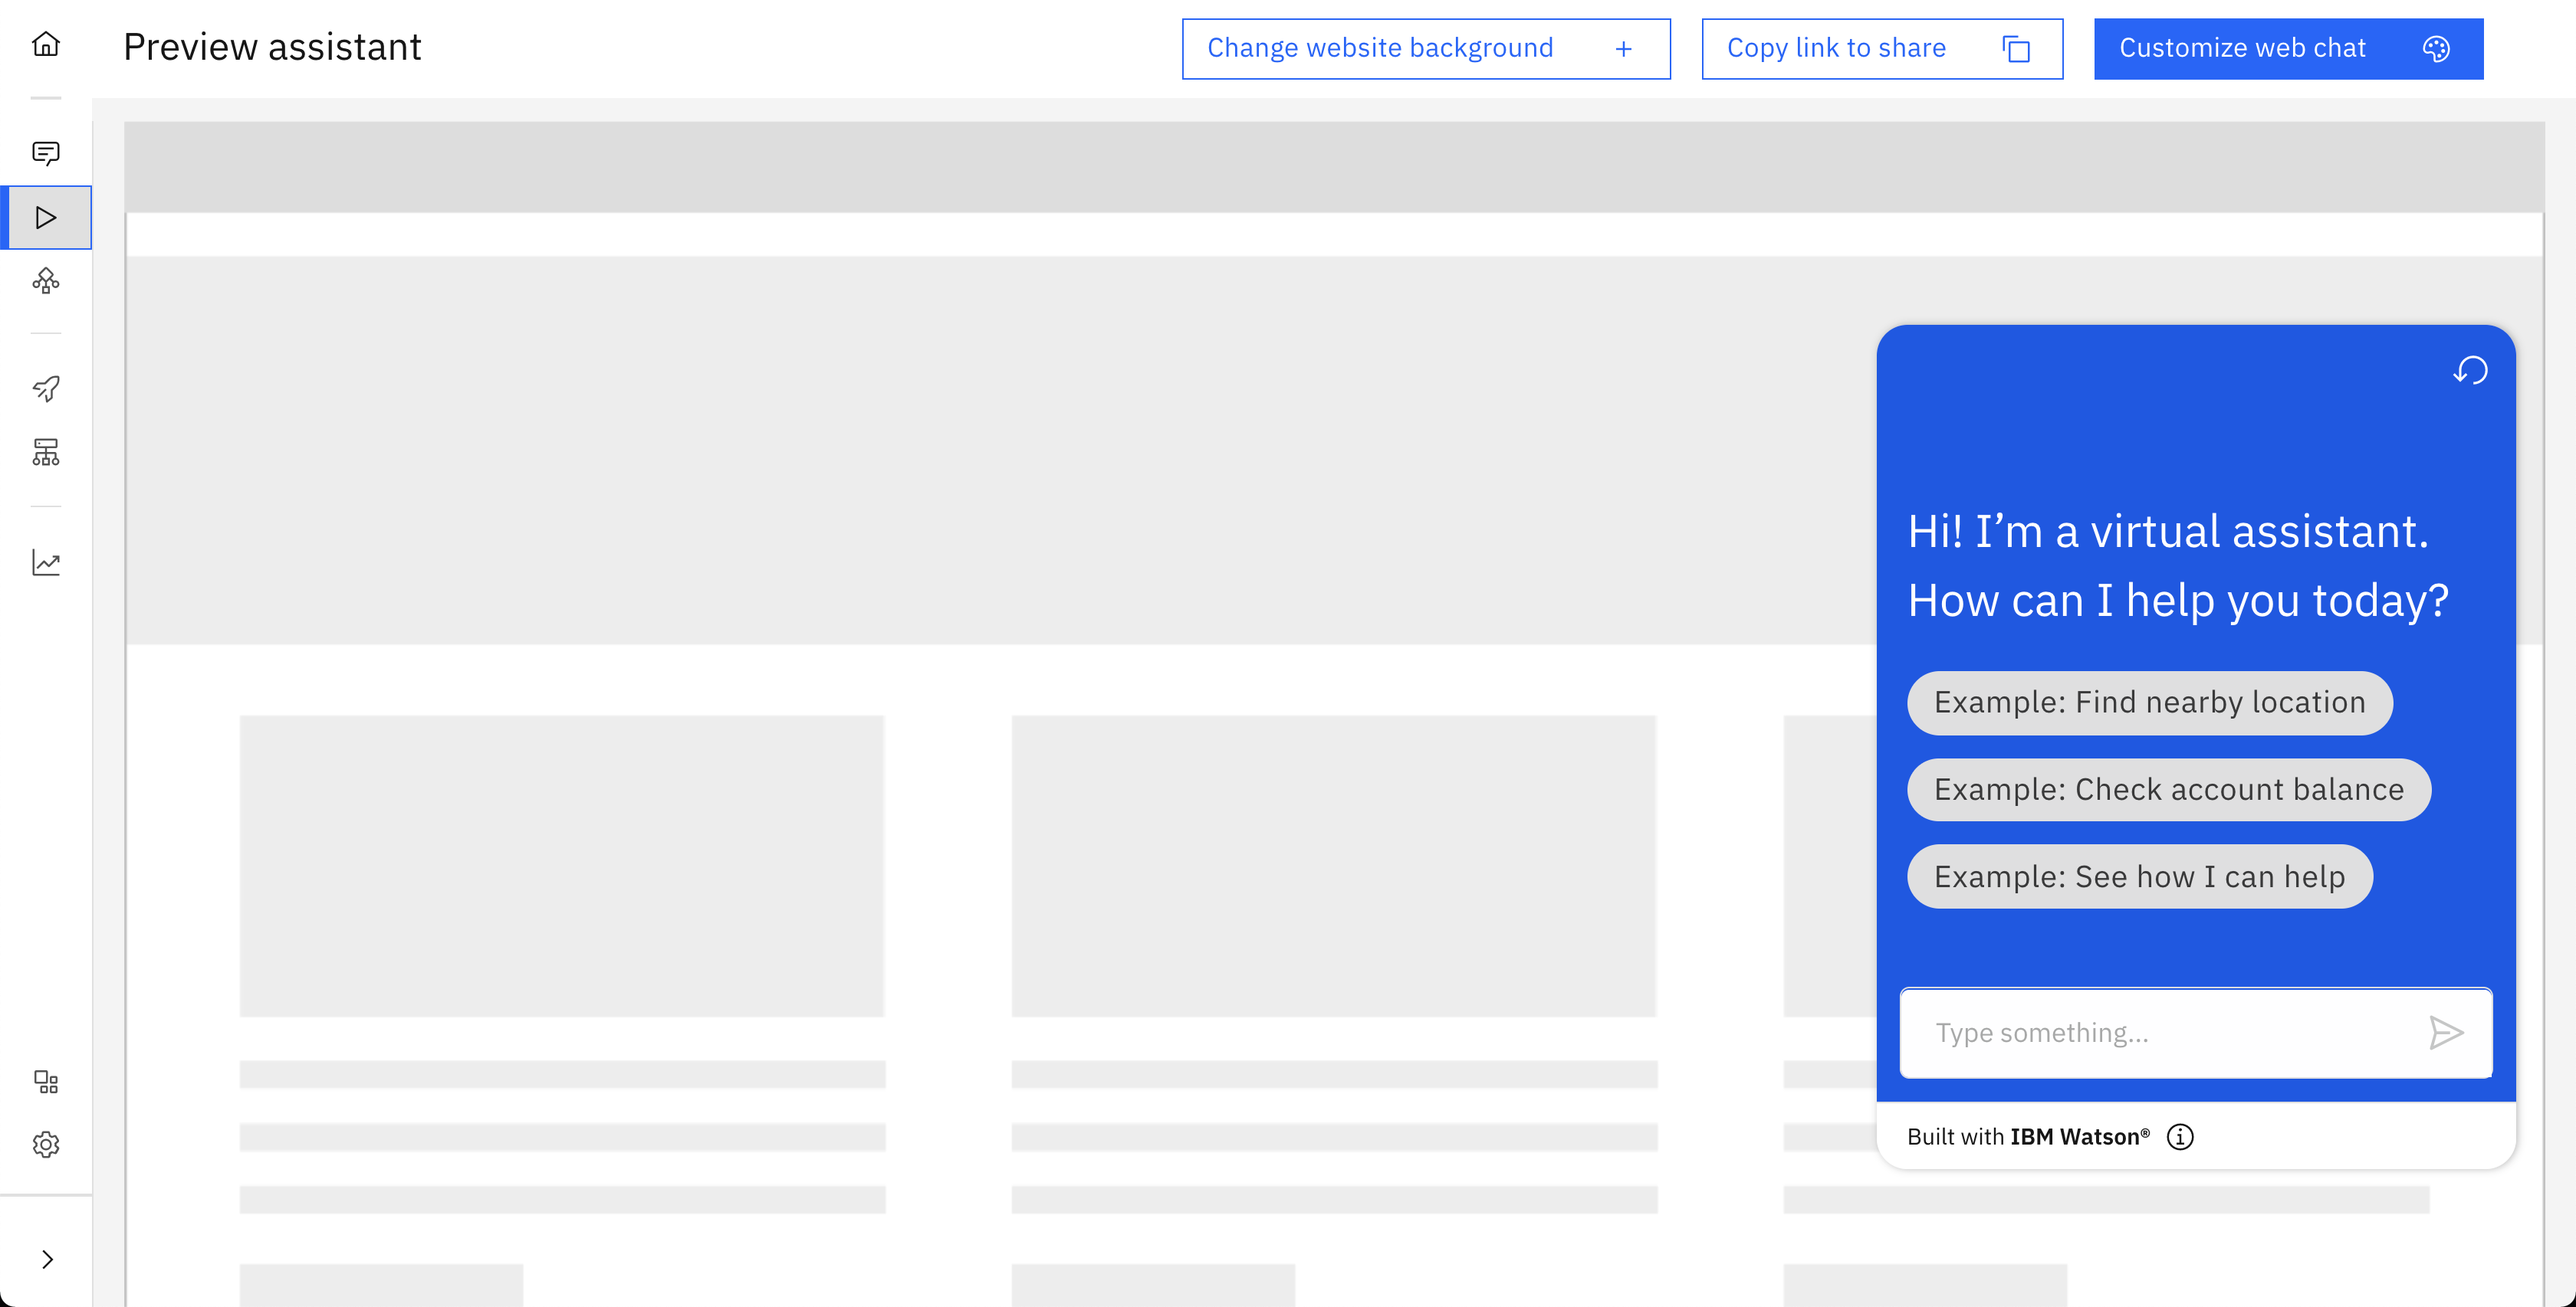
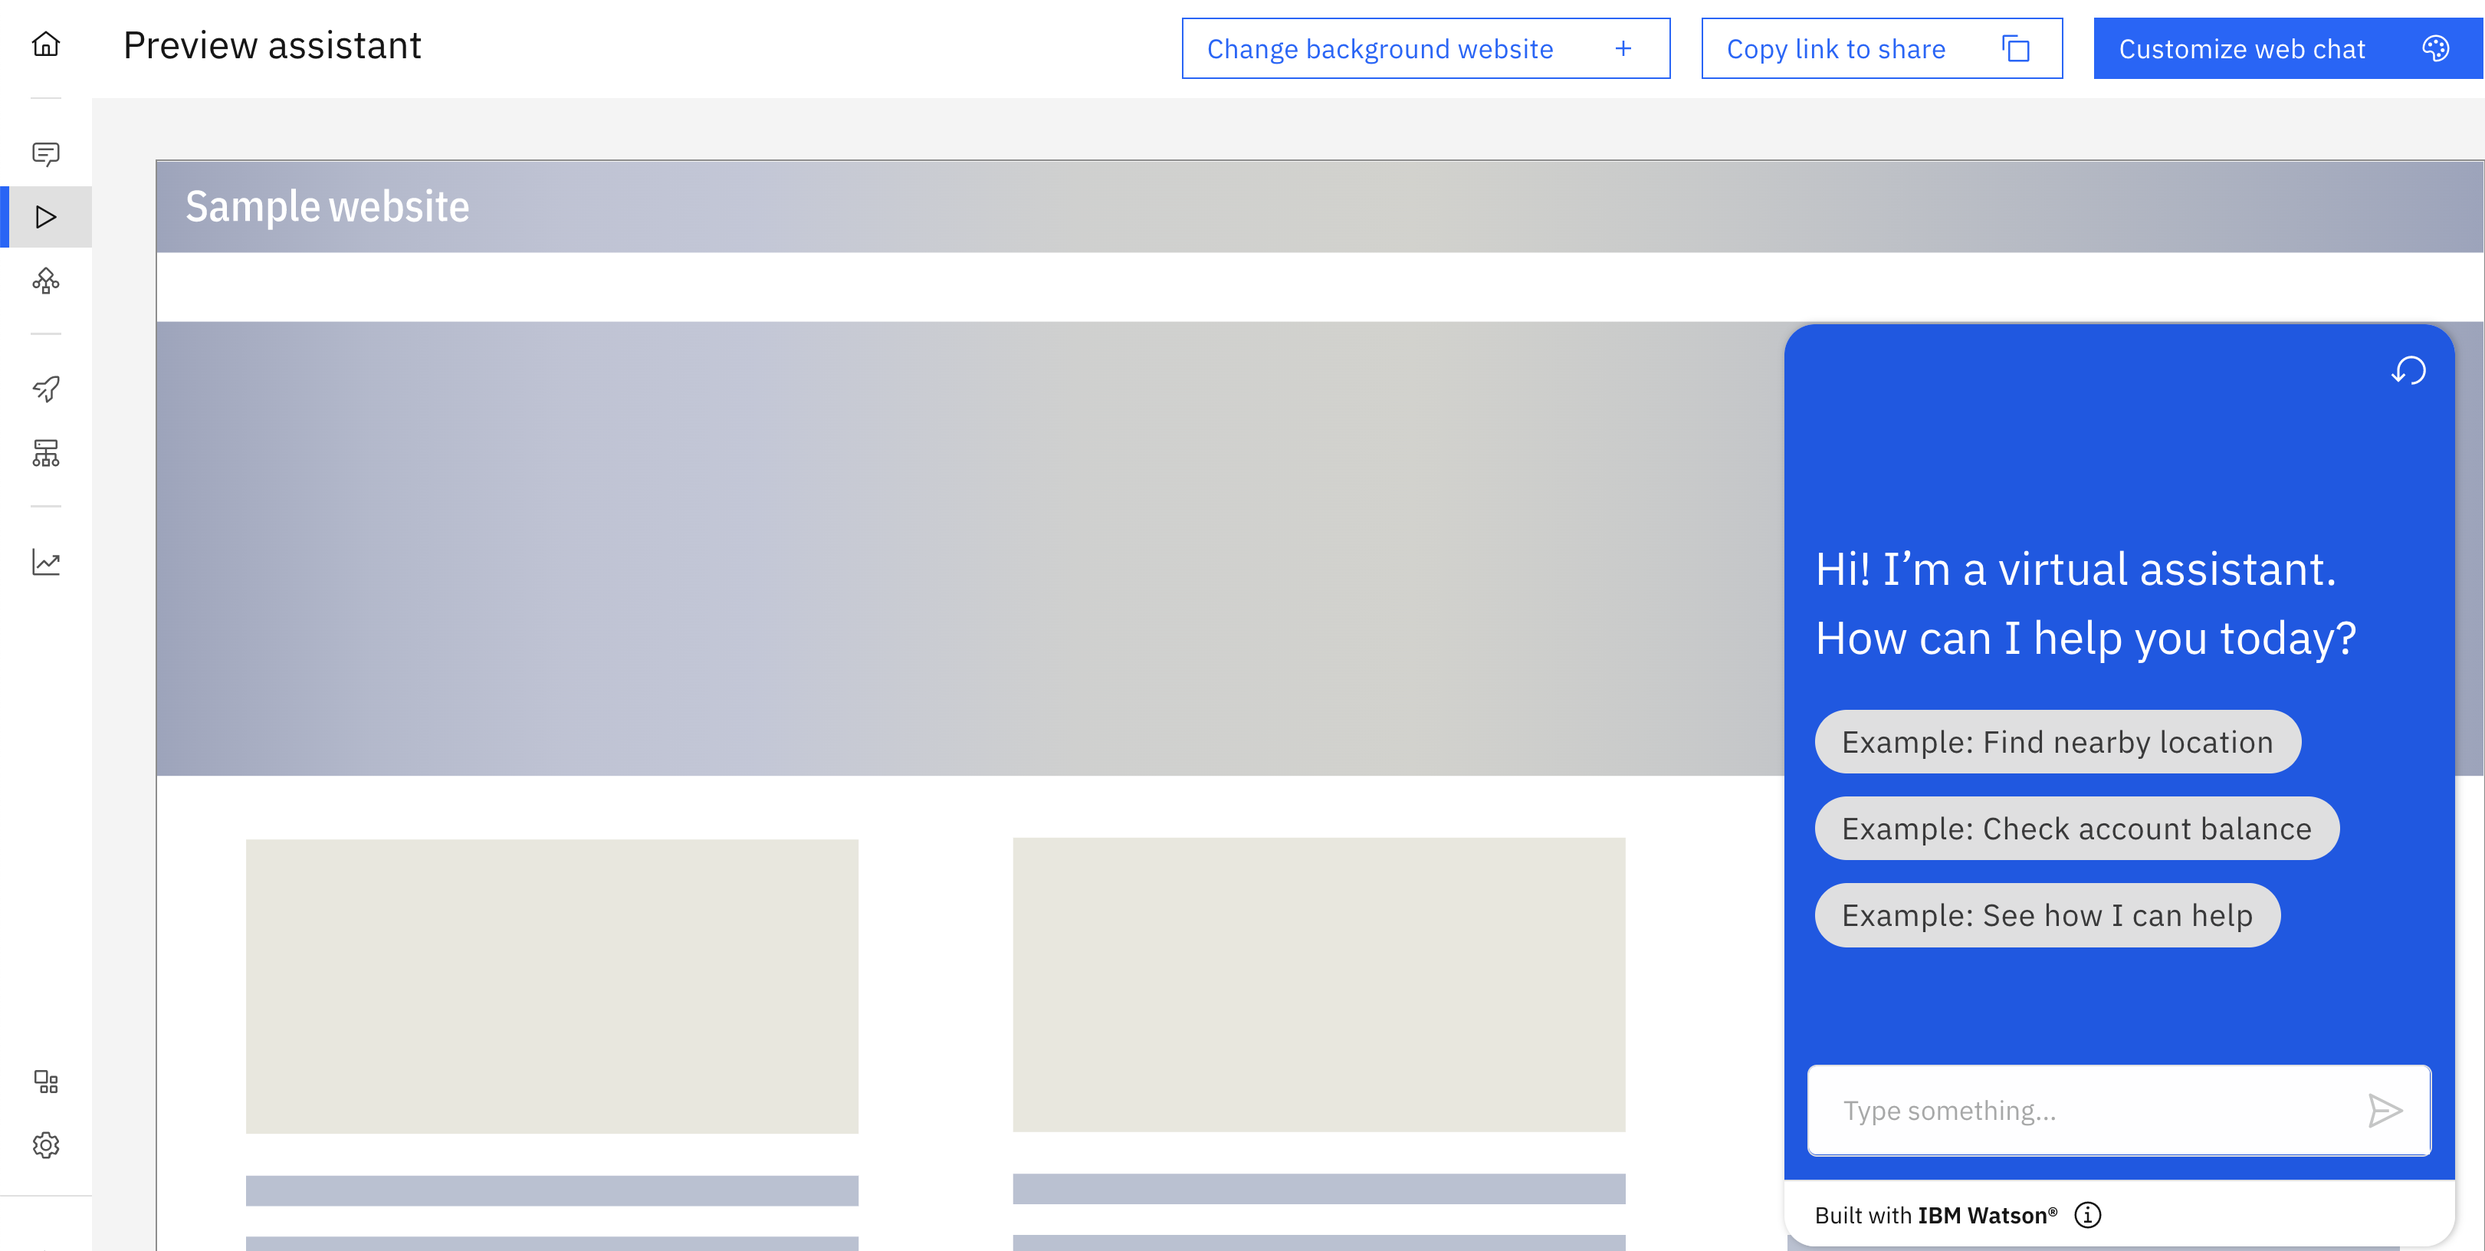
Publish share link mirroring and adding users

diff --git a/access-control.md b/access-control.md
@@ -1,8 +1,8 @@
 ---
 
 copyright:
-  years: 2020, 2021
-lastupdated: "2021-11-16"
+  years: 2020, 2022
+lastupdated: "2022-02-17"
 
 subcollection: watson-assistant
 
@@ -27,17 +27,44 @@ subcollection: watson-assistant
 # Managing access
 {: #access-control}
 
-If you need to collaborate with others on your assistants, you can use the [Identity and Access Management (IAM) page](https://cloud.ibm.com/iam/users) in IBM Cloud to add users.
+If you need to collaborate with others on your assistants, you can quickly add users with Administrator and Manager access from the **Manage** menu. To manage access to your assistants, use the [Identity and Access Management (IAM) page](https://cloud.ibm.com/iam/users) in IBM Cloud.
 {: shortdesc}
 
-In the new Watson Assistant, each assistant contains all the draft and live resolution methods (actions and search integration) and channels you add (such as web chat, Facebook, or Slack), so the simplest way to provide access is to add users to your Watson Assistant instance with Administrator and Manager permissions. This gives other users the same level of access to a Watson Assistant service instance as you, and ensures they have all the privileges they need to build and deploy any assistant. Unlike classic Watson Assistant, you no longer need to provide specific access to individual assistants and skills. Now in the new Watson Assistant, each assistant includes everything you need and access is more efficient.
+## Adding users from the Manage menu
+{: #access-control-add-users}
 
-## Opening Identity and Access Management
-{: #access-control-iam}
+In the new Watson Assistant, each assistant contains all the draft and live resolution methods (actions and search integration) and channels you add (such as web chat, Facebook, or Slack), so the simplest way to provide access is to add users to your Watson Assistant instance with Administrator and Manager permissions. This gives other users the same level of access to a Watson Assistant service instance as you, and ensures they have all the privileges they need to build and deploy any assistant. If you want to add users without full access or manage the access of existing users, see the steps for [Managing access with Identity and Access Management](#access-control-iam).
+
+To add users with Administrator and Manager access, complete the following steps:
 
 1.  Open the **Manage** menu.
 
-    ![Manage menu](images/access-control-manage-menu.png)
+    ![Manage menu](images/access-control-manage-menu-2.png)
+
+1. Click **Add users**.
+
+1. Enter the email addresses of the users that you want to provide full access to. Separate email addresses with commas, spaces, or line breaks.
+
+    ![Add users](images/add-users.png)
+
+    Adding users from this menu enables them to read, write, and manage all aspects of the instance.
+    {: important}
+
+1. Click **Submit**.
+
+After you click **Submit**, any user that you invite receives an email to access the assistant. After they accept the invite, they can now work on your assistant with you.
+
+## Managing access with Identity and Access Management
+{: #access-control-iam}
+
+Another way to add users to your assistants is using Identity and Access Management (IAM). If you want to add users, and you don't want them to have full Administrator and Manager access, use IAM to add them. From IAM, you can also manage access roles of those users that are already added to your assistants.
+
+### Opening Identity and Access Management
+{: #access-control-open-iam}
+
+1.  Open the **Manage** menu.
+
+    ![Manage menu](images/access-control-manage-menu-2.png)
 
 1.	Click **Manage users**.
 
@@ -45,10 +72,8 @@ In the new Watson Assistant, each assistant contains all the draft and live reso
 
     ![Access and permissions](images/access-control-manage-users-modal.png){: caption="Access and permissions" caption-side="bottom"}
 
-1.	You’ll use Identity and Access Management (IAM) for all steps to share access.
-
-## Providing access to your assistants
-{: #access-control-provide-access}
+### Adding users in Identity and Access Management
+{: #access-control-manage-access}
 
 1.	In IAM, click **Invite users**.
 
@@ -68,7 +93,7 @@ In the new Watson Assistant, each assistant contains all the draft and live reso
 
     ![Service instance](images/access-control-service-instance.png){: caption="Service instance" caption-side="bottom"}
 
-1.	In **Platform access**, check **Administrator**, and in **Service access**, check **Manager**. 
+1.	In **Platform access**, select the platform role that you want the user to have. A platform role controls a person's ability to access a service instance in IBM Cloud. In **Service access**, select the service role that you want the user to have. A service role controls what a person can do in Watson Assistant.
 
 1.	Click **Add** to add the access policy.
 
@@ -78,4 +103,4 @@ In the new Watson Assistant, each assistant contains all the draft and live reso
 
     ![Invite button](images/access-control-summary.png){: caption="Invite button" caption-side="bottom"}
 
-The user you invited appears in your list with the status of **Processing**. Once they accept the invite, status changes to **Active** and can now work on your assistants with you.
+The user you invited appears in your list with the status of **Processing**. After they accept the invite, status changes to **Active** and can now work on your assistants with you.

diff --git a/release-notes.md b/release-notes.md
@@ -2,7 +2,7 @@
 
 copyright:
   years: 2015, 2022
-lastupdated: "2022-02-10"
+lastupdated: "2022-02-16"
 
 keywords: Watson Assistant release notes
 
@@ -37,6 +37,16 @@ Find out what's new in {{site.data.keyword.conversationfull}}.
 {: shortdesc}
 
 This topic describes the new features, changes, and bug fixes in each release of the product. For more information about changes in the web chat integration, see the [Web chat release notes](/docs/watson-assistant?topic=watson-assistant-release-notes-chat).
+
+## 17 February 2022
+{: #watson-assistant-feb172022}
+{: release-note}
+
+Adding users from the Manage menu
+:   If you want to collaborate with others on your assistants, you can now quickly add users with Administrator and Manager access from the **Manage** menu in your assistant. For more information, see [Adding users from the Manage menu](/docs/watson-assistant?topic=watson-assistant-access-control#access-control-add-users).
+
+Preview page share link
+:   When you use the **Copy link to share** button to share your assistant, the shared assistant now mirrors the Preview page. If you share the assistant with a colleague, they are able to see the assistant with any customizations that you made on the Preview page.
 
 ## 10 February 2022
 {: #watson-assistant-feb102022}

diff --git a/preview-share.md b/preview-share.md
@@ -42,7 +42,7 @@ As you edit your content from the **Actions** page, your changes are automatical
 Use the **Preview** page to test your assistant with your team. From this page, you can experience your assistant from your customer's perspective. On the **Preview** page, the **Assistant preview** pane is the interactive web chat widget where you can test out your assistant as if you were a customer. The content contained in the assistant is the content that you built into your actions or set up with the search integration. On the **Preview** page, you also find the following elements:
 - **Customize web chat**: Customize your draft web chat channel to match your brand or website.
 - **Copy link to share**: Share an unauthenticated version of your assistant with your colleagues by sending them a link.
-- **Change website background**: Change the background of the page so you can see what your assistant looks like on different web pages.
+- **Change background website**: Change the background of the page so you can see what your assistant looks like on different web pages.
 
 ![Image of the Preview page](images/preview-page.png)
 
